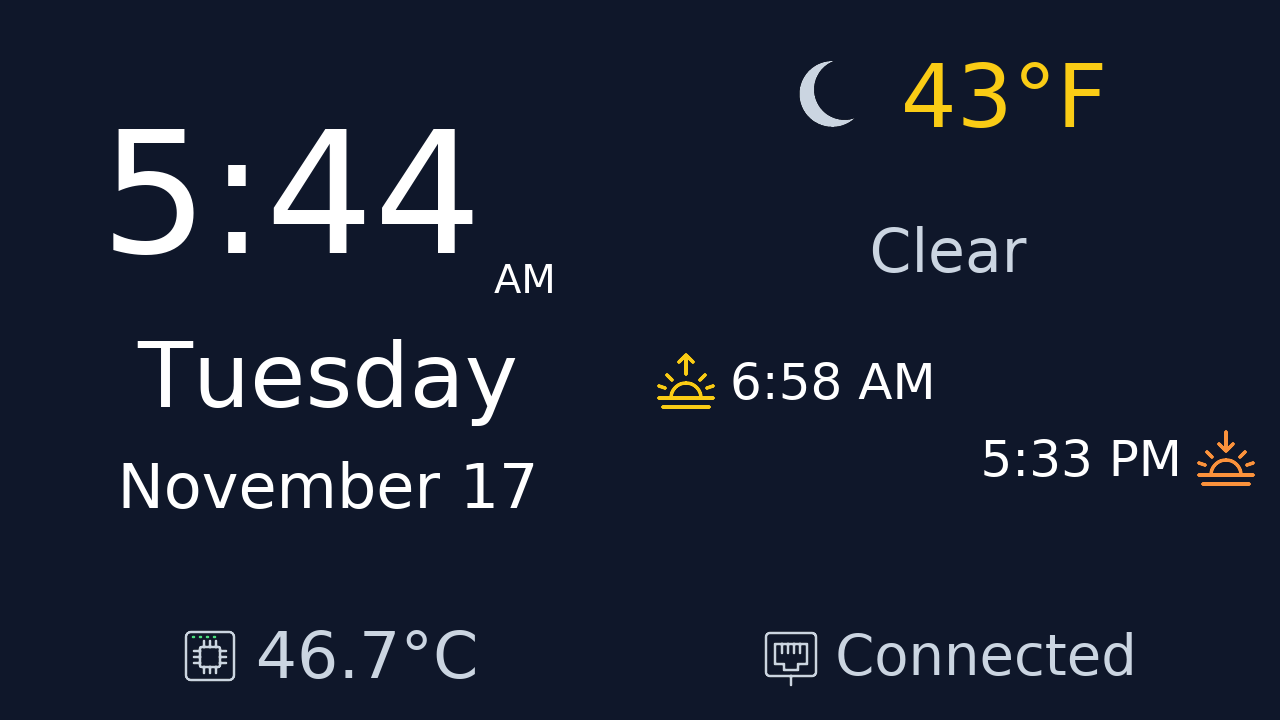
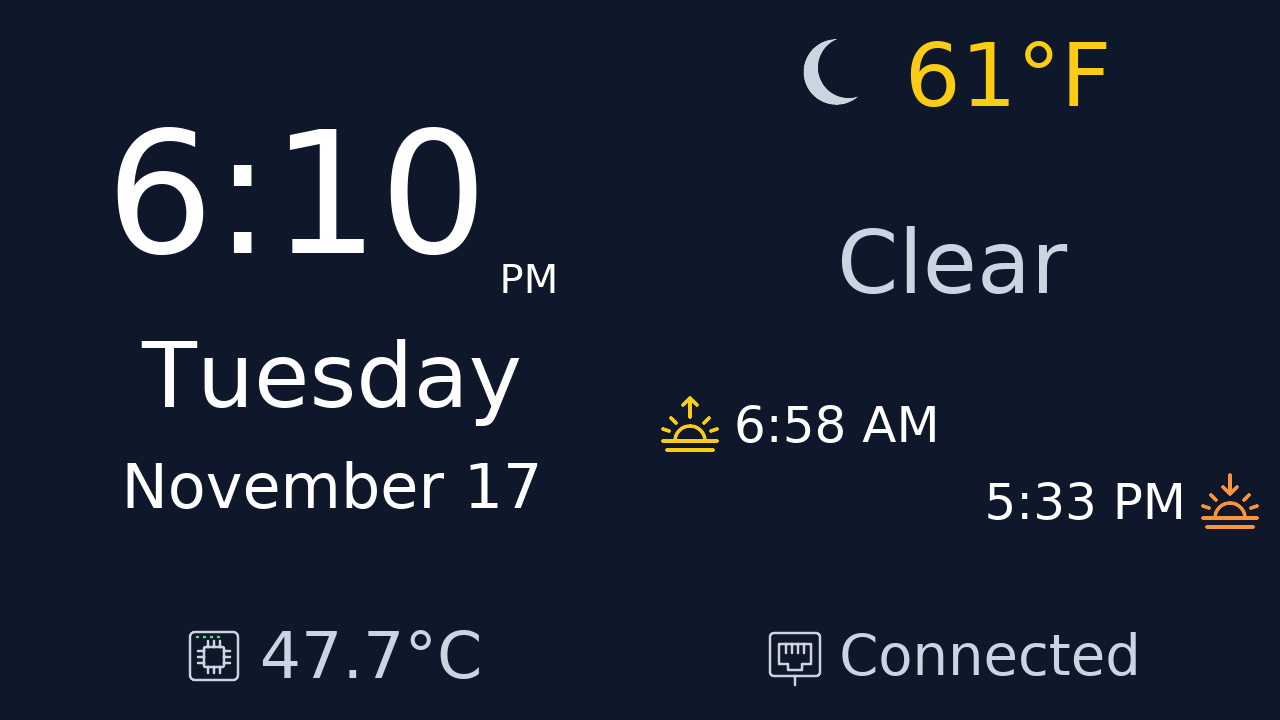
Enlarge weather condition text and refresh dashboard screenshot

diff --git a/src/main.rs b/src/main.rs
@@ -412,12 +412,12 @@ fn view(state: &RaspiClock) -> iced::Element<'_, Message> {
         temperature_row,
         iced::widget::container(
             text(weather_condition)
-                .size(60.0 * scale)
+                .size(88.0 * scale)
                 .width(iced::Length::Fill)
                 .align_x(iced::Alignment::Center)
                 .color(iced::Color::from_rgb8(203, 213, 225)),
         )
-        .center_y(148.0 * scale),
+        .center_y(212.0 * scale),
         sun_rows,
         weather_status,
     ]

diff --git a/README.md b/README.md
@@ -33,7 +33,7 @@ The dashboard is designed around the current 1280×720 landscape display and sca
 
 - A 60/40 split places the large clock on the left and weather on the right.
 - Time digits are 170 px at native resolution, with 40 px AM/PM and 64 px weekday and 56 px date text.
-- The weather icon sits beside the temperature, with 56 px conditions and 38 px sunrise/sunset times below, paired with 48 px yellow sunrise and orange sunset SVG icons. The condition has a reserved two-line area for longer descriptions.
+- The weather icon sits beside the temperature. The condition appears below in 88 px text, with room for two lines. Sunrise and sunset use 50 px text and 64 px icons, yellow for sunrise and orange for sunset.
 - A 56 px footer shows CPU temperature beside a 64 px board SVG and wired connection status beside a 64 px Ethernet SVG. Wi-Fi and other connection types retain their text labels.
 - Loading, configuration errors, failed weather updates, and stale-data notices use a reserved area below the weather. Successful updates show no message, and warnings do not move the surrounding content.
 
